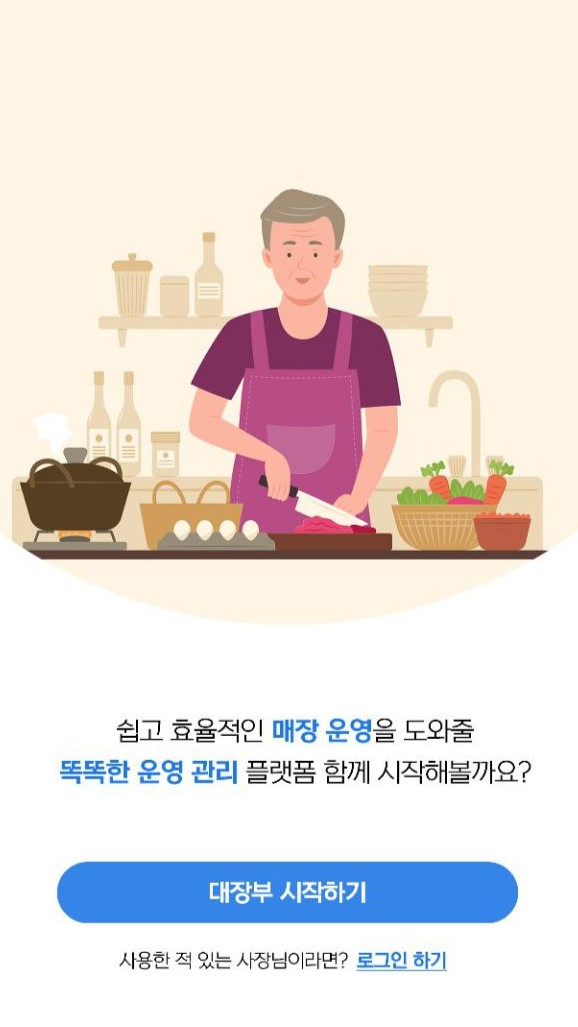
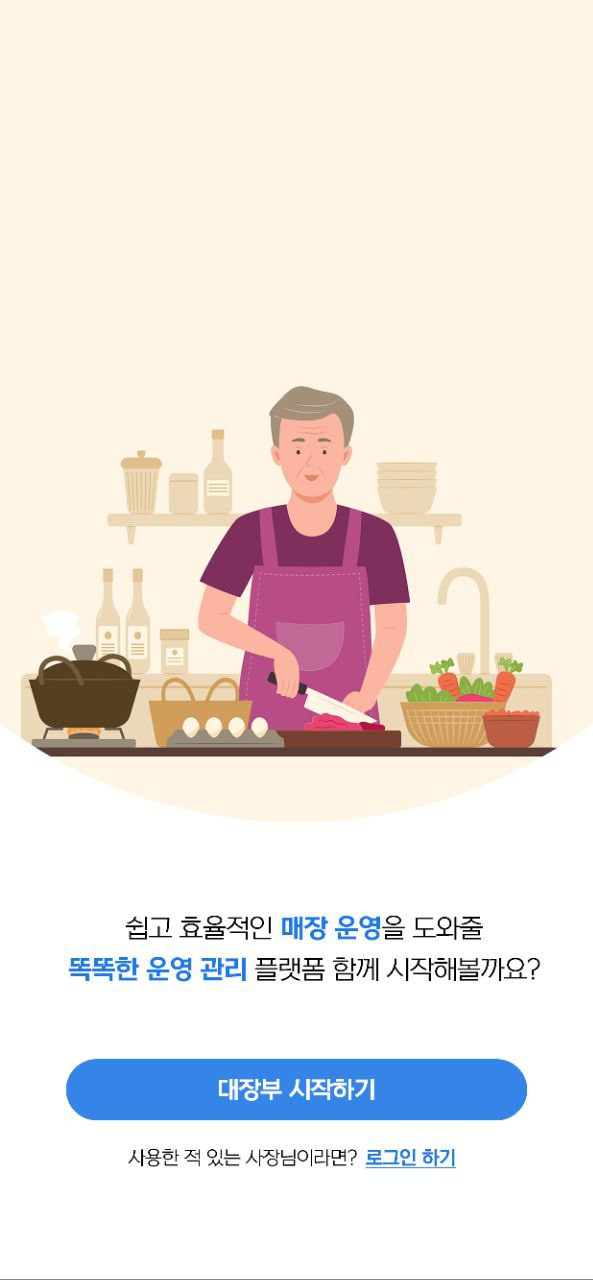
daejangbu page some hero section improvement

diff --git a/src/components/Mockup.tsx b/src/components/Mockup.tsx
@@ -1,0 +1,95 @@
+import { SVGProps } from "react";
+
+export interface Iphone15ProProps extends SVGProps<SVGSVGElement> {
+  width?: number;
+  height?: number;
+  src?: string;
+}
+
+export function Iphone15Pro({
+  width = 433,
+  height = 882,
+  src= '/assets/dejangubpage.jpg',
+  ...props
+}: Iphone15ProProps) {
+  return (  
+    <svg
+      width={width}
+      height={height}
+      viewBox={`0 0 ${width} ${height}`}
+      fill="none"
+      xmlns="http://www.w3.org/2000/svg"
+      {...props}
+    >
+      <path
+        d="M2 73C2 32.6832 34.6832 0 75 0H357C397.317 0 430 32.6832 430 73V809C430 849.317 397.317 882 357 882H75C34.6832 882 2 849.317 2 809V73Z"
+        className="fill-[#E5E5E5] dark:fill-[#404040]"
+      />
+      <path
+        d="M0 171C0 170.448 0.447715 170 1 170H3V204H1C0.447715 204 0 203.552 0 203V171Z"
+        className="fill-[#E5E5E5] dark:fill-[#404040]"
+      />
+      <path
+        d="M1 234C1 233.448 1.44772 233 2 233H3.5V300H2C1.44772 300 1 299.552 1 299V234Z"
+        className="fill-[#E5E5E5] dark:fill-[#404040]"
+      />
+      <path
+        d="M1 319C1 318.448 1.44772 318 2 318H3.5V385H2C1.44772 385 1 384.552 1 384V319Z"
+        className="fill-[#E5E5E5] dark:fill-[#404040]"
+      />
+      <path
+        d="M430 279H432C432.552 279 433 279.448 433 280V384C433 384.552 432.552 385 432 385H430V279Z"
+        className="fill-[#E5E5E5] dark:fill-[#404040]"
+      />
+      <path
+        d="M6 74C6 35.3401 37.3401 4 76 4H356C394.66 4 426 35.3401 426 74V808C426 846.66 394.66 878 356 878H76C37.3401 878 6 846.66 6 808V74Z"
+        className="dark:fill-[#262626] fill-white"
+      />
+      <path
+        opacity="0.5"
+        d="M174 5H258V5.5C258 6.60457 257.105 7.5 256 7.5H176C174.895 7.5 174 6.60457 174 5.5V5Z"
+        className="fill-[#E5E5E5] dark:fill-[#404040]"
+      />
+      <path
+        d="M21.25 75C21.25 44.2101 46.2101 19.25 77 19.25H355C385.79 19.25 410.75 44.2101 410.75 75V807C410.75 837.79 385.79 862.75 355 862.75H77C46.2101 862.75 21.25 837.79 21.25 807V75Z"
+        className="fill-[#E5E5E5] dark:fill-[#404040] stroke-[#E5E5E5] dark:stroke-[#404040] stroke-[0.5]"
+      />
+
+      {src && (
+        <image
+          href={src}
+          x="21.25"
+          y="19.25"
+          width="389.5"
+          height="843.5"
+          preserveAspectRatio="xMidYMid slice"
+          clipPath="url(#roundedCorners)"
+        />
+      )}
+      <path
+        d="M154 48.5C154 38.2827 162.283 30 172.5 30H259.5C269.717 30 278 38.2827 278 48.5C278 58.7173 269.717 67 259.5 67H172.5C162.283 67 154 58.7173 154 48.5Z"
+        className="dark:fill-[#262626] fill-[#F5F5F5]"
+      />
+      <path
+        d="M249 48.5C249 42.701 253.701 38 259.5 38C265.299 38 270 42.701 270 48.5C270 54.299 265.299 59 259.5 59C253.701 59 249 54.299 249 48.5Z"
+        className="dark:fill-[#262626] fill-[#F5F5F5]"
+      />
+      <path
+        d="M254 48.5C254 45.4624 256.462 43 259.5 43C262.538 43 265 45.4624 265 48.5C265 51.5376 262.538 54 259.5 54C256.462 54 254 51.5376 254 48.5Z"
+        className="fill-[#E5E5E5] dark:fill-[#404040]"
+      />
+      <defs>
+        <clipPath id="roundedCorners">
+          <rect
+            x="21.25"
+            y="19.25"
+            width="389.5"
+            height="843.5"
+            rx="55.75"
+            ry="55.75"
+          />
+        </clipPath>
+      </defs>
+    </svg>
+  );
+}

diff --git a/src/app/daejangbu/page.tsx b/src/app/daejangbu/page.tsx
@@ -10,6 +10,7 @@ import TestimonialsSection from '@/components/TestimonialsSection'
 import StoreOperation from '@/components/StoreOperation'
 import StoreOperationsDEJANGBU from '@/components/StoreOperationsDEJANGBU'
 import SalesAnalysis from '@/components/SalesAnalysis'
+import { Iphone15Pro } from '@/components/Mockup'
 
 export default function dejangbupage() {
   const containerVariants = {
@@ -49,7 +50,7 @@ export default function dejangbupage() {
   return (
     <div className="min-h-screen bg-white">
       {/* Hero Section */}
-      <section className="relative min-h-screen flex items-center bg-gradient-to-b from-white to-blue-200 text-white overflow-hidden">
+      <section className="relative min-h-screen sm:max-h-screen flex items-center bg-gradient-to-b from-white to-blue-200 text-white overflow-hidden">
 
         <div className="max-w-[1500px] mx-auto px-4 py-20 relative z-10">
           <motion.div
@@ -90,9 +91,9 @@ export default function dejangbupage() {
 
             <motion.div
               variants={fadeInScale}
-              className="relative sm:h-[500px]"
+              className="relative flex items-center justify-center sm:mt-[80%] mt-0"
             >
-              <motion.div
+                {/* <motion.div
                 initial={{ y: 20 }}
                 animate={{ y: 0 }}
                 transition={{
@@ -110,8 +111,10 @@ export default function dejangbupage() {
                   className="w-full h-auto drop-shadow-2xl"
                   priority
                 />
-              </motion.div>
-            </motion.div>
+              </motion.div>*/}
+
+            <Iphone15Pro className="size-full sm:h-[700px] h-[550px] w-[350px]" />
+            </motion.div> 
           </motion.div>
         </div>
       </section>
